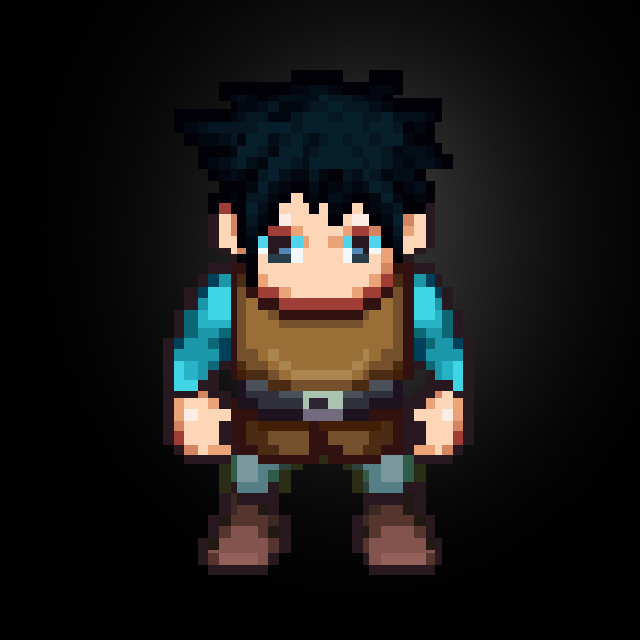
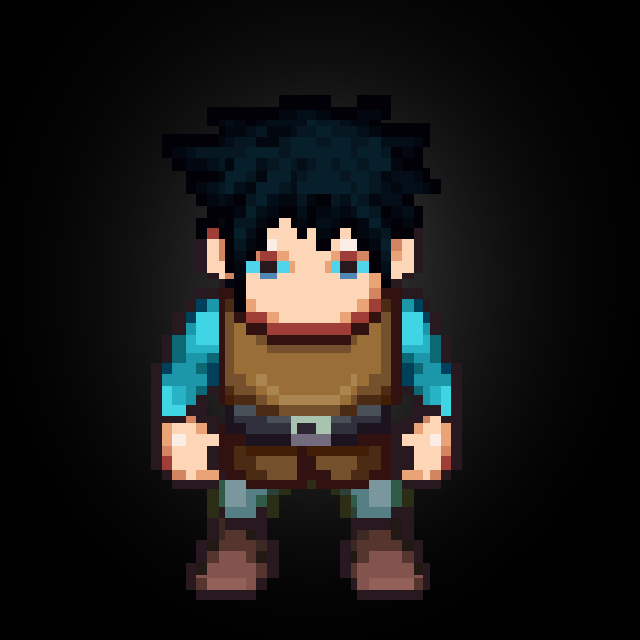
Added Smile and "Fixed" Eyes

Changed region(s): [[0.2188, 0.1875, 0.75, 0.9375], [0.4688, 0.125, 0.6562, 0.2188], [0.375, 0.1562, 0.4688, 0.25]]

diff --git a/main.js b/main.js
@@ -45,10 +45,15 @@ Animation.prototype.drawFrame = function (tick, ctx, x, y, entity) {
     else if(entity.nKey) {
     	yindex = 8;
     }
-    else if(entity.rKey || entity.cKey) {
+    else if(entity.rKey) {
     	yindex = 9;
     }
-
+    else if(entity.cKey) {
+    	yindex = 10;
+    }
+    else if(entity.zKey) {
+    	yindex = 11;
+    }
     
     ctx.drawImage(this.spriteSheet,
                  xindex * this.frameWidth, yindex * this.frameHeight,  // source from sheet
@@ -106,8 +111,8 @@ PlayerBody.prototype.update = function () {
 
 function Mouth(game, spritesheet) {
     this.animation = new Animation(spritesheet, 80, 40, 10, 1.0, 10, true, 1.0);
-    this.x = 278;
-    this.y = 260;
+    this.x = 265;
+    this.y = 280;
     this.aKey = false;
     this.bKey = false;
     this.cKey = false;
